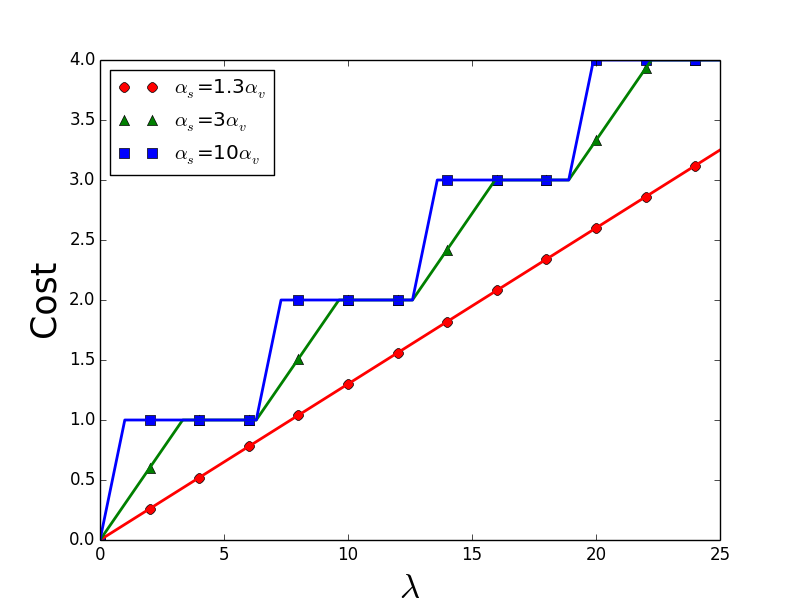
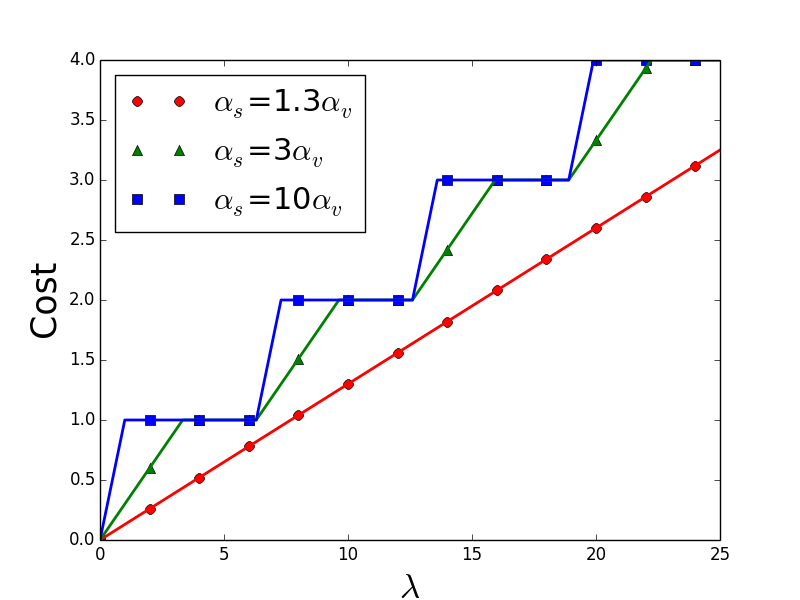
increased font size for legends

Changed region(s): [[0.125, 0.09, 0.4688, 0.39]]

diff --git a/scripts/generate_plots.py b/scripts/generate_plots.py
@@ -557,7 +557,7 @@ def plotmultipleVMs_vary_mu():
 	plt.plot(lambdas, results[1], 'g', linewidth='2')
 	plt.plot(lambdas, results[2], 'b', linewidth='2')
 	# plt.plot(lambdas, results[3], 'cD')
-	plt.legend(legends, loc='upper left')
+	plt.legend(legends, loc='upper left', fontsize=22)
 	plt.ylabel('Cost', fontsize=25)
 	# title = "Multiple VMs, different price ratios"
 	# fig.suptitle(title)
@@ -619,7 +619,7 @@ def plotmultipleVMs_vary_price_ratio():
 	plt.plot(lambdas, results[1], 'g', linewidth='2')
 	plt.plot(lambdas, results[2], 'b', linewidth='2')
 	# plt.plot(lambdas, results[3], 'cD')
-	plt.legend(legends, loc='upper left')
+	plt.legend(legends, loc='upper left', fontsize=22)
 	plt.ylabel('Cost', fontsize=25)
 	# title = "Multiple VMs, different price ratios"
 	# fig.suptitle(title)
@@ -737,11 +737,11 @@ def plotmultipleVMonoff_vary_price_ratio():
 	plt.plot(lambdas, results[2], 'g', linewidth='2')
 	plt.plot(lambdas, results[3], 'b', linewidth='2')
 
-	plt.legend(legends, loc='upper left')
-	plt.ylabel('Cost')
+	plt.legend(legends, loc='upper left', fontsize=21)
+	plt.ylabel('Cost', fontsize=25)
 	# title = "Multiple VMs, different price ratios"
 	# fig.suptitle(title)
-	plt.xlabel(r'$\lambda$')
+	plt.xlabel(r'$\lambda$', fontsize=25)
 	plt.savefig(filename)
 
 def plotmultipleVMonoff_vary_mu():
@@ -860,7 +860,7 @@ def plotmultipleVMonoff_vary_mu():
 	# plt.plot(lambdas, results[2], 'b', linewidth='3')
 
 	# plt.plot(lambdas, results[3], 'cD')
-	plt.legend(legends, loc='upper left')
+	plt.legend(legends, loc='upper left', fontsize=22)
 	plt.ylabel('Cost', fontsize=25)
 	# title = "Multiple VMs, different price ratios"
 	# fig.suptitle(title)
@@ -977,7 +977,7 @@ def plotmultipleVMonoff_vary_gamma():
 	plt.plot(lambdas, results[1], 'g', linewidth='2')
 	plt.plot(lambdas, results[2], 'b', linewidth='2')
 	# plt.plot(lambdas, results[3], 'cD')
-	plt.legend(legends, loc='upper left')
+	plt.legend(legends, loc='upper left', fontsize=22)
 	plt.ylabel('Cost', fontsize=25)
 	# title = "Multiple VMs, different price ratios"
 	# fig.suptitle(title)
@@ -1011,7 +1011,7 @@ def plotcostserv_to_vm_ON():
 	plt.plot(alpha_v_range, results[1], 'g', linewidth='2')
 	plt.plot(alpha_v_range, results[2], 'b', linewidth='2')
 	# plt.plot(lambdas, results[3], 'cD')
-	plt.legend(legends, loc='upper left')
+	plt.legend(legends, loc='upper left', fontsize=22)
 	plt.ylabel(r'$\alpha_s$', fontsize=25)
 	plt.ylim([0,90])
 	# title = "Multiple VMs, different price ratios"
@@ -1047,7 +1047,7 @@ def plotcostserv_to_vm_ON_OFF():
 	plt.plot(alpha_v_range, results[0], 'r', linewidth='2')
 	plt.plot(alpha_v_range, results[1], 'g', linewidth='2')
 	plt.plot(alpha_v_range, results[2], 'b', linewidth='2')
-	plt.legend(legends, loc='upper left')
+	plt.legend(legends, loc='upper left', fontsize=22)
 	plt.ylabel(r'$\alpha_s$', fontsize=25)
 	# title = "Multiple VMs, different price ratios"
 	# fig.suptitle(title)
@@ -1088,7 +1088,7 @@ def plotmus_to_muv_ON_OFF():
 	for val_lambda in lambdas: 
 		key = r'$\lambda$' + ' = ' + str(val_lambda)
 		legends.append(key)
-	plt.legend(legends, loc='upper left')
+	plt.legend(legends, loc='upper left', fontsize=22)
 	plt.ylabel(r'$\mu_s$', fontsize=25)
 	plt.xlabel(r'$\mu_v$', fontsize=25)
 	plt.savefig(filename)
@@ -1098,9 +1098,9 @@ def main():
 	if len(sys.argv) != 2:
 		print "USAGE: python generate_plots.py <exp_type>"
 		print "<exp_type> : vary_num_VMs/vary_startup_delay/vary_service_rate_VM/plotVMcost/plotTotalcost"
-		print "<exp_type> : plotmultipleVMs_vary_price_ratio/plotmultipleVMs_vary_mu/multipleVMonoff_vary_price_ratio/plotmultipleVMonoff_vary_mu/plotmultipleVMonoff_vary_gamma"
-		print "<exp_type> : plotcostserv_to_vm_ON/plotcostserv_to_vm_ON_OFF"
-		print "<exp_type> : plotmus_to_muv_ON_OFF"
+		print "<exp_type> : multipleVMs_vary_price_ratio/multipleVMs_vary_mu/multipleVMonoff_vary_price_ratio/multipleVMonoff_vary_mu/multipleVMonoff_vary_gamma"
+		print "<exp_type> : costserv_to_vm_ON/costserv_to_vm_ON_OFF"
+		print "<exp_type> : mus_to_muv_ON_OFF"
 		return
 	exp_type = sys.argv[1]
 	if exp_type == 'vary_startup_delay':
@@ -1115,28 +1115,28 @@ def main():
 		plotTotalcost()
 	elif exp_type == 'singleVM':
 		plotsingleVM()
-	elif exp_type == 'plotmultipleVMs_vary_price_ratio':
+	elif exp_type == 'multipleVMs_vary_price_ratio':
 		plotmultipleVMs_vary_price_ratio()
-	elif exp_type == 'plotmultipleVMs_vary_mu':
+	elif exp_type == 'multipleVMs_vary_mu':
 		plotmultipleVMs_vary_mu()
 	elif exp_type == 'multipleVMonoff_vary_price_ratio':
 		plotmultipleVMonoff_vary_price_ratio()
-	elif exp_type == 'plotmultipleVMonoff_vary_mu':
+	elif exp_type == 'multipleVMonoff_vary_mu':
 		plotmultipleVMonoff_vary_mu()
-	elif exp_type == 'plotmultipleVMonoff_vary_gamma':
+	elif exp_type == 'multipleVMonoff_vary_gamma':
 		plotmultipleVMonoff_vary_gamma()
-	elif exp_type == 'plotcostserv_to_vm_ON':
+	elif exp_type == 'costserv_to_vm_ON':
 		plotcostserv_to_vm_ON()
-	elif exp_type == 'plotcostserv_to_vm_ON_OFF':
+	elif exp_type == 'costserv_to_vm_ON_OFF':
 		plotcostserv_to_vm_ON_OFF()
-	elif exp_type == 'plotmus_to_muv_ON_OFF':
+	elif exp_type == 'mus_to_muv_ON_OFF':
 		plotmus_to_muv_ON_OFF()
 	else:
 		print "Wrong <exp_type>"
 		print "<exp_type> : vary_num_VMs/vary_startup_delay/vary_service_rate_VM/plotVMcost/plotTotalcost"
-		print "<exp_type> : plotmultipleVMs_vary_price_ratio/plotmultipleVMs_vary_mu/multipleVMonoff_vary_price_ratio/plotmultipleVMonoff_vary_mu/plotmultipleVMonoff_vary_gamma"
-		print "<exp_type> : plotcostserv_to_vm_ON/plotcostserv_to_vm_ON_OFF"
-		print "<exp_type> : plotmus_to_muv_ON_OFF"
+		print "<exp_type> : multipleVMs_vary_price_ratio/multipleVMs_vary_mu/multipleVMonoff_vary_price_ratio/multipleVMonoff_vary_mu/multipleVMonoff_vary_gamma"
+		print "<exp_type> : costserv_to_vm_ON/costserv_to_vm_ON_OFF"
+		print "<exp_type> : mus_to_muv_ON_OFF"
 
 if __name__ == '__main__':
 	main()
